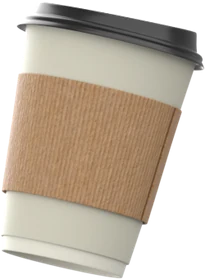
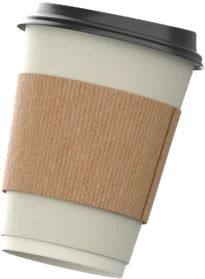
기프트샵 상품을 3종으로 줄이고 빵을 대각선 각도로 다시 렌더링합니다
6종을 다 놓으니 폰 화면이 가려져 읽히지 않았습니다. 컵라면·캔·아이스크림을
빼고 종이컵·물병·빵만 남겨 폰 둘레에 삼각으로 벌렸습니다. 이제 화면이
그대로 보입니다.

빵은 옆에서 본 모습이라 밋밋했는데, 대각선에서 내려다본 각도로 다시
렌더링했습니다(rotation -40° / 8° / -50°). 칼집 낸 윗면과 옆면이 같이
보입니다.

상품 스프라이트는 6장 92KB → 3장 48KB 로 줄었습니다. 뺀 세 모델은 씬에
그대로 남아 있어 언제든 다시 넣을 수 있습니다.

diff --git a/src/pages/BomeonPage.tsx b/src/pages/BomeonPage.tsx
@@ -47,9 +47,6 @@ import cashCoin5 from "../assets/3d/cash-coin-5.webp"
 import giftItem0 from "../assets/3d/gift-item-0.webp"
 import giftItem1 from "../assets/3d/gift-item-1.webp"
 import giftItem2 from "../assets/3d/gift-item-2.webp"
-import giftItem3 from "../assets/3d/gift-item-3.webp"
-import giftItem4 from "../assets/3d/gift-item-4.webp"
-import giftItem5 from "../assets/3d/gift-item-5.webp"
 
 /*
  * 현행 brothermaze.com 의 화면 구성을 그대로 토스 형식으로 옮겼습니다.
@@ -96,22 +93,17 @@ const CASH_COINS = [
   { src: cashCoin5, iw: 52, ih: 66, left: 0.924, top: 42.519, w: 8.125, z: 6, bx: "552%", by: "81%", dur: "9.5s", delay: "-2.8s", dx: "-13%", dy: "-26%", rot: "-6deg" },
 ]
 
-/* 기프트샵 컷에 얹는 상품 6종. 금화와 같은 방식으로 폰과 따로 렌더링했고,
- * 폰 화면 한가운데(49.8%, 50%)에서 튀어나옵니다. 물병은 투명해서 흰 배경
- * 위에서는 안 보이므로 폰 화면에 걸치도록 뒀습니다. */
+/* 기프트샵 컷에 얹는 상품 3종. 금화와 같은 방식으로 폰과 따로 렌더링했고,
+ * 폰 화면 한가운데(49.8%, 50%)에서 튀어나옵니다. 화면이 가려지지 않도록
+ * 폰 둘레에 삼각으로 벌려 두었습니다. 물병은 투명해서 흰 배경 위에서는
+ * 보이지 않으므로 폰 테두리에 걸치게 뒀습니다. */
 const GIFT_ITEMS = [
   /* 종이컵 */
-  { src: giftItem0, iw: 205, ih: 279, left: 2.569, top: -2.106, w: 25.625, z: 3, bx: "134%", by: "220%", dur: "11s", delay: "-0.7s", dx: "7%", dy: "-16%", rot: "3deg" },
+  { src: giftItem0, iw: 205, ih: 279, left: 0.624, top: -3.184, w: 25.625, z: 2, bx: "142%", by: "225%", dur: "11s", delay: "-0.7s", dx: "7%", dy: "-16%", rot: "3deg" },
   /* 물병 */
-  { src: giftItem1, iw: 156, ih: 330, left: 10.145, top: 42.248, w: 19.5, z: 1, bx: "153%", by: "-16%", dur: "12.5s", delay: "-2.4s", dx: "-6%", dy: "17%", rot: "-3deg" },
+  { src: giftItem1, iw: 156, ih: 331, left: 75.77, top: 25.686, w: 19.5, z: 1, bx: "-183%", by: "56%", dur: "12.5s", delay: "-2.4s", dx: "-6%", dy: "17%", rot: "-3deg" },
   /* 빵 */
-  { src: giftItem2, iw: 244, ih: 125, left: -1.526, top: 74.748, w: 30.5, z: 4, bx: "118%", by: "-336%", dur: "10.5s", delay: "-3.6s", dx: "8%", dy: "-15%", rot: "4deg" },
-  /* 캔 */
-  { src: giftItem3, iw: 211, ih: 355, left: 85.905, top: 28.976, w: 26.375, z: 5, bx: "-187%", by: "35%", dur: "13s", delay: "-1.5s", dx: "-7%", dy: "-18%", rot: "-3deg" },
-  /* 컵라면 */
-  { src: giftItem4, iw: 280, ih: 343, left: 70.139, top: -3.354, w: 35.0, z: 2, bx: "-108%", by: "174%", dur: "11.5s", delay: "-4.2s", dx: "6%", dy: "16%", rot: "3deg" },
-  /* 아이스크림 */
-  { src: giftItem5, iw: 153, ih: 364, left: 79.558, top: 59.888, w: 19.125, z: 6, bx: "-206%", by: "-89%", dur: "10s", delay: "-3s", dx: "-8%", dy: "-17%", rot: "-4deg" },
+  { src: giftItem2, iw: 206, ih: 134, left: 1.648, top: 78.662, w: 25.75, z: 3, bx: "137%", by: "-359%", dur: "10.5s", delay: "-3.6s", dx: "8%", dy: "-15%", rot: "4deg" },
 ]
 
 type FloatCoin =
